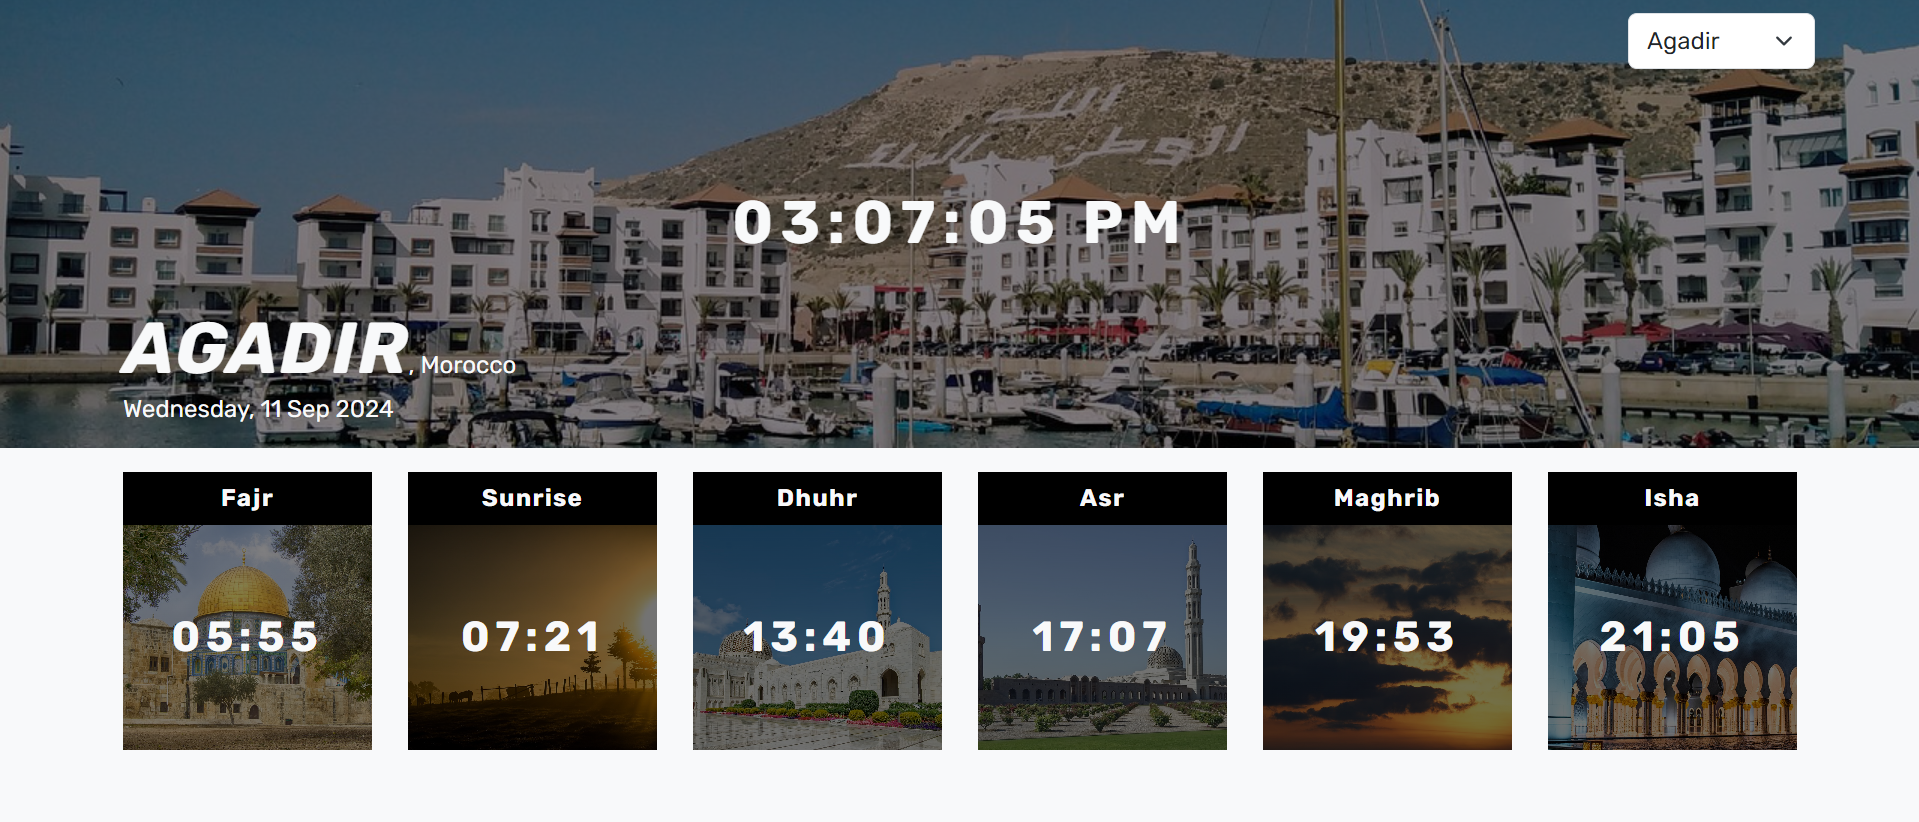
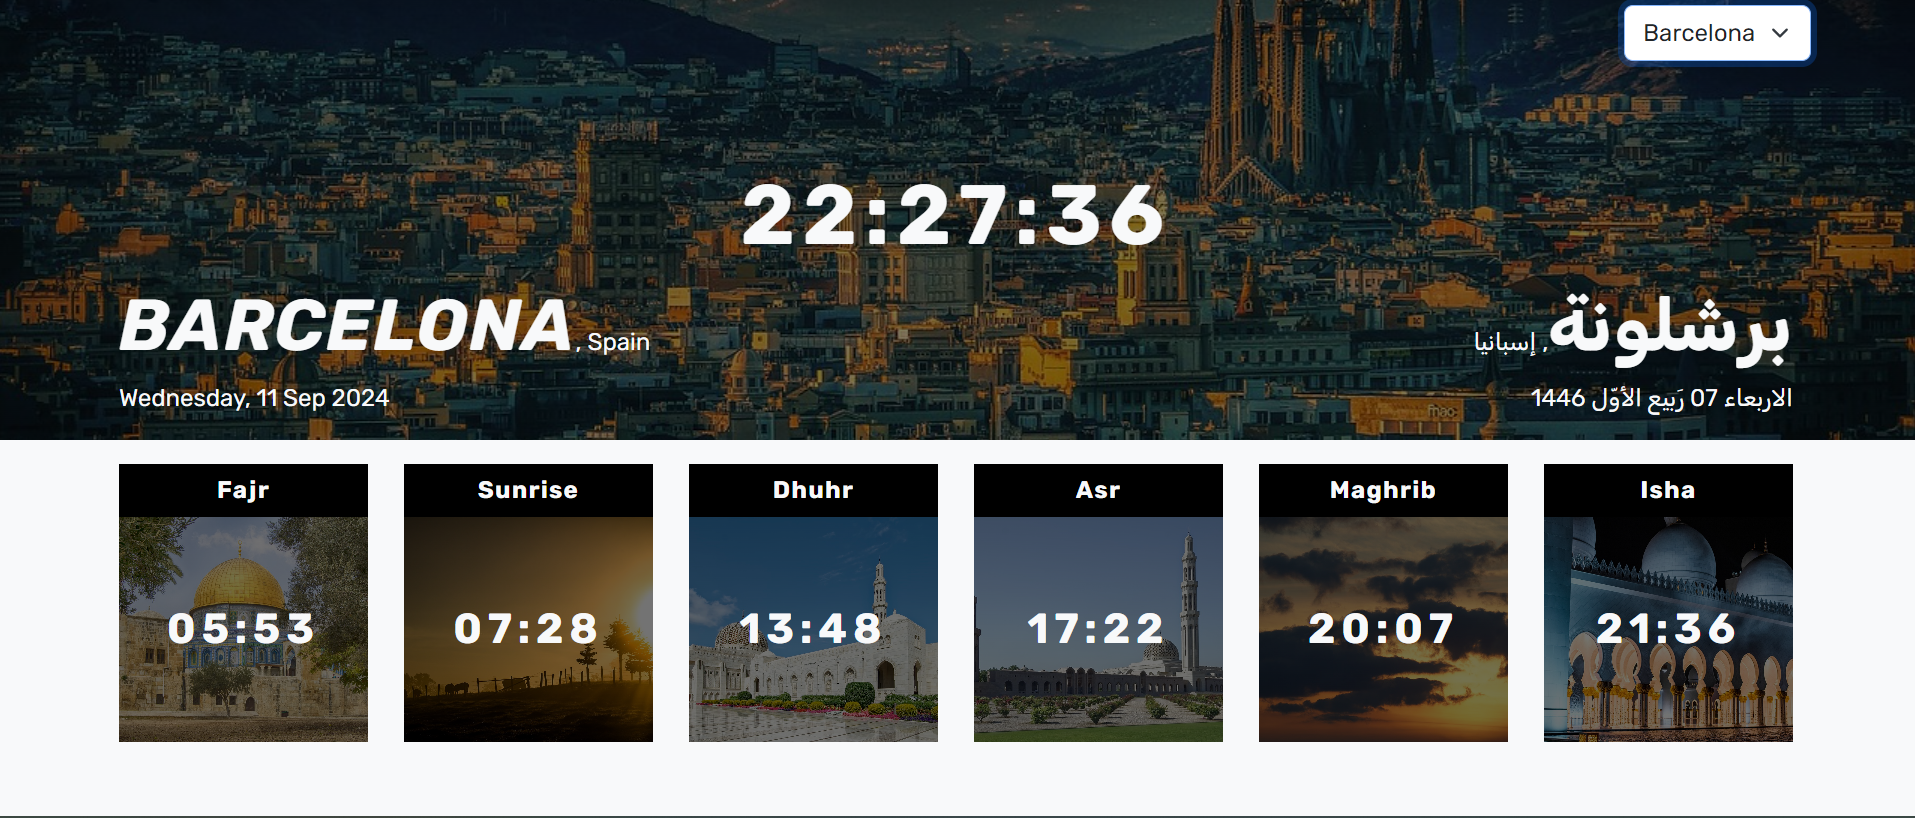
connect the app with json file

diff --git a/src/Components/DateInfo.tsx b/src/Components/DateInfo.tsx
@@ -1,60 +1,75 @@
 import { useState } from "react";
+import jsonData from "../data/db.json";
 
 interface DateInfoProps {
   city: Record<string, string>;
   setCity: (city: Record<string, string>) => void;
-  todayDate: string ;
-  timezone: string;
+  apiData: Record<string, any>;
 }
 
-const DateInfo = ({ city, setCity, todayDate, timezone}: DateInfoProps) => {
-
-  const Cities: Record<string, string>[] = [
-    { cityName: "Agadir", country: "Morocco", imgUrl: "https://cdn.pixabay.com/photo/2020/02/09/19/42/agadir-4834349_1280.jpg" },
-    { cityName: "Algiers", country: "Algeria",  imgUrl: "https://cdn.pixabay.com/photo/2017/06/20/22/13/ain-taya-2425120_1280.jpg" },
-    { cityName: "Tunis", country: "Tunisia",  imgUrl: "https://cdn.pixabay.com/photo/2014/01/24/20/29/mosque-251183_1280.jpg" },
-    { cityName: "Cairo", country: "Egypt",  imgUrl: "https://cdn.pixabay.com/photo/2018/03/24/15/07/pyramid-3256883_1280.jpg" },
-    { cityName: "Al-Qods", country: "Palestine",  imgUrl: "https://cdn.pixabay.com/photo/2019/11/27/21/06/jerusalem-4657867_1280.jpg" },
-    { cityName: "Makkah", country: "KSA",  imgUrl: "https://cdn.pixabay.com/photo/2019/09/18/23/29/the-pilgrims-guide-4487889_1280.jpg" },
-    { cityName: "Istanbul", country: "Turkey",  imgUrl: "https://cdn.pixabay.com/photo/2019/03/08/19/52/galata-4043037_1280.jpg" },
-    { cityName: "Moscow", country: "Russia",  imgUrl: "https://cdn.pixabay.com/photo/2016/07/30/08/13/moscow-1556561_1280.jpg" },
-    { cityName: "Tokyo", country: "Japan",  imgUrl: "https://cdn.pixabay.com/photo/2019/06/08/11/30/people-4259948_1280.jpg" },
-    { cityName: "Jakarta", country: "Indonesia",  imgUrl: "https://cdn.pixabay.com/photo/2019/11/29/04/14/jakarta-4660555_1280.jpg" },
-    { cityName: "Canberra", country: "Australia",  imgUrl: "https://cdn.pixabay.com/photo/2019/10/19/03/05/australia-canberra-4560441_1280.jpg" },
-    { cityName: "New York", country: "USA",  imgUrl: "https://cdn.pixabay.com/photo/2016/11/29/05/34/new-york-1867569_1280.jpg" },
-    { cityName: "Juneau", country: "USA",  imgUrl: "https://cdn.pixabay.com/photo/2017/05/04/17/08/harbor-2284564_1280.jpg" },
-    { cityName: "Ottawa", country: "Canada",  imgUrl: "https://cdn.pixabay.com/photo/2018/06/22/13/29/ottawa-3490766_1280.jpg" },
-    { cityName: "London", country: "UK",  imgUrl: "https://cdn.pixabay.com/photo/2023/05/02/18/13/london-7965770_1280.jpg" },
-    { cityName: "Barcelona", country: "Spain",  imgUrl: "https://cdn.pixabay.com/photo/2018/03/14/23/00/barcelona-3226639_1280.jpg" },
-    { cityName: "Rome", country: "Italy",  imgUrl: "https://cdn.pixabay.com/photo/2018/07/20/14/02/rome-3550739_1280.jpg" },
-  ];
+const DateInfo = ({ city, setCity, apiData }: DateInfoProps) => {
+  // get All cities info from json file
+  const Cities: Record<string, string>[] = jsonData.cities;
 
   // Handel select a city
   const handleSelect = (cityNameSelected: string) => {
-    const selectedCity = Cities.find(city => city.cityName === cityNameSelected);
+    const selectedCity = Cities.find(
+      (city) => city.EnCityName === cityNameSelected
+    );
     selectedCity && setCity(selectedCity);
   };
-  
+
   // show the moment time
   const [time, setTime] = useState(new Date());
   setInterval(() => setTime(new Date()), 1000);
-  const options: Intl.DateTimeFormatOptions = { timeZone: timezone, hour: '2-digit', minute: '2-digit', second: '2-digit' };
+  const options: Intl.DateTimeFormatOptions = {
+    timeZone: apiData.Timezone,
+    hour: "2-digit",
+    minute: "2-digit",
+    second: "2-digit",
+  };
   const clock = time.toLocaleTimeString("en-GB", options);
-  
+
   return (
-    <div className="date_info text-light" style={{ backgroundImage:`linear-gradient(#00000080, #00000080),url(${city.imgUrl})`}}>
+    <div
+      className="date_info text-light"
+      style={{
+        backgroundImage: `linear-gradient(#00000080, #00000080),url(${city.imgUrl})`,
+      }}
+    >
       <div className="container h-100 position-relative d-flex">
-        <ul className="list-unstyled lh-sm mt-md-auto text-md-start text-center w-100">
-          <li><i className="text-uppercase fw-bold">{city.cityName}</i>, {city.country}</li>
-          <li>{todayDate}</li>
-        </ul>
-        <h1 className="clock position-absolute fw-bold w-100 text-center">{clock}</h1>
-        <select className="form-select position-absolute" value={city.cityName} onChange={(e)=>handleSelect(e.target.value)}>
-          {Cities.map((city, index) => <option key={index}>{city.cityName}</option>)}
+        <div className="mt-md-auto w-100 d-flex">
+          <ul className="list-unstyled me-auto">
+            <li>
+              <i className="text-uppercase fw-bold">{city.EnCityName}</i>,{" "}
+              {city.EnCountryName}
+            </li>
+            <li>{apiData.EnTodayDate}</li>
+          </ul>
+
+          <ul className="list-unstyled text-end">
+            <li>
+              <i className="text-uppercase fw-bold">{city.ArCityName}</i>,{" "}
+              {city.ArCountryName}
+            </li>
+            <li>{apiData.ArTodayDate}</li>
+          </ul>
+        </div>
+        <h1 className="clock position-absolute fw-bold w-100 text-center">
+          {clock}
+        </h1>
+        <select
+          className="form-select position-absolute"
+          value={city.EnCityName}
+          onChange={(e) => handleSelect(e.target.value)}
+        >
+          {Cities.map((city, index) => (
+            <option key={index}>{city.EnCityName}</option>
+          ))}
         </select>
       </div>
     </div>
   );
-}
+};
 
 export default DateInfo;

diff --git a/src/App.tsx b/src/App.tsx
@@ -2,55 +2,64 @@ import { useEffect, useState } from "react";
 import DateInfo from "./Components/DateInfo";
 import PrayerTimes from "./Components/PrayerTimes";
 
-const App = () => {
+interface apiDataTypes {
+  timings: any;
+  EnTodayDate: string | null;
+  ArTodayDate: string | null;
+  Timezone: string;
+}
 
+const App = () => {
   const [city, setCity] = useState<Record<string, string>>({
-    cityName: "Agadir",
-    country: "Morocco",
-    imgUrl:"https://cdn.pixabay.com/photo/2020/02/09/19/42/agadir-4834349_1280.jpg",
+    EnCityName: "Agadir",
+    ArCityName: "أكادير",
+    EnCountryName: "Morocco",
+    ArCountryName: "المغرب",
+    imgUrl:
+      "https://cdn.pixabay.com/photo/2020/02/09/19/42/agadir-4834349_1280.jpg",
   });
-  
-  const [prayerTimes, setPrayerTimes] = useState<Record<string, string> | null>(null);
-  const [timezone, setTimezone] = useState<string>("Africa/Casablanca");
-  const [todayDate, setTodayDate] = useState<string>("");
+
+  const [apiData, setApiData] = useState<apiDataTypes>({
+    timings: "",
+    EnTodayDate: "",
+    ArTodayDate: "",
+    Timezone: "Africa/Casablanca",
+  });
+
   const [msg, setMsg] = useState<string>("Loading...");
-  
+
   const getCityPrayerTimes = async (city: Record<string, string>) => {
     try {
-      const response = await fetch(`https://api.aladhan.com/v1/timingsByCity?city=${city.cityName}&country=${city.country}`);
-      if (!response.ok) {
-        setMsg(`Error ${response.status}: Failed to get data from API`);
-        return { timings: null, todayDate: null, Timezone: null };
-      }
+      const response = await fetch(`https://api.aladhan.com/v1/timingsByCity?city=${city.EnCityName}&country=${city.EnCountryName}`);
+      if (!response.ok) throw new Error(`(${response.status}) Failed to get data from API`);
       const data = await response.json();
-
-      const { Fajr, Sunrise, Dhuhr, Asr, Maghrib, Isha } = data.data.timings; // get prayer timings
-      const todayDate = `${data.data.date.gregorian.weekday.en}, ${data.data.date.readable}`; // get the date of the day in city select
-      const Timezone = data.data.meta.timezone; // get the timezone of the city selected
-
-      return { timings: { Fajr, Sunrise, Dhuhr, Asr, Maghrib, Isha }, todayDate, Timezone };
+      const { Fajr, Sunrise, Dhuhr, Asr, Maghrib, Isha } = data.data.timings;
+      const DataFromApi = {
+        timings: { Fajr, Sunrise, Dhuhr, Asr, Maghrib, Isha },
+        EnTodayDate: `${data.data.date.gregorian.weekday.en}, ${data.data.date.readable}`,
+        ArTodayDate: `${data.data.date.hijri.year} ${data.data.date.hijri.weekday.ar} ${data.data.date.hijri.day} ${data.data.date.hijri.month.ar}`,
+        Timezone: data.data.meta.timezone,
+      };
+      return DataFromApi;
     } catch (error) {
       setMsg(`${error}`);
-      return { timings: null, todayDate: null, Timezone: null };
     }
+    return null;
   };
 
   useEffect(() => {
     (async () => {
-      const { timings, todayDate, Timezone } = await getCityPrayerTimes(city);
-      timings && setPrayerTimes(timings);
-      todayDate && setTodayDate(todayDate);
-      Timezone && setTimezone(Timezone);
+      const DataFromApi = await getCityPrayerTimes(city);
+      DataFromApi && setApiData(DataFromApi);
     })();
   }, [city]);
 
   return (
     <section className="bg-light d-flex flex-column">
-      <DateInfo city={city} setCity={setCity} todayDate={todayDate} timezone={timezone} />
-      <PrayerTimes prayerTimes={prayerTimes} msg={msg} />
+      <DateInfo city={city} setCity={setCity} apiData={apiData} />
+      <PrayerTimes timings={apiData.timings} msg={msg} />
     </section>
   );
-
 };
 
 export default App;

diff --git a/src/Components/PrayerTimes.tsx b/src/Components/PrayerTimes.tsx
@@ -1,23 +1,33 @@
+import jsonData from "../data/db.json";
+
 interface PrayerTimesProps {
-  prayerTimes: Record<string, string> | null;
+  timings: any;
   msg: string;
 }
 
-export default function PrayerTimes({ prayerTimes, msg }: PrayerTimesProps) {
+export default function PrayerTimes({ timings, msg }: PrayerTimesProps) {
+  if (!timings) return <div className="m-auto">{msg}</div>;
 
-  if (!prayerTimes) return <div className="m-auto">{msg}</div>;
+  const cardBgImg: Record<string, string> = jsonData.cardBg;
 
   return (
     <div className="prayer_times d-flex flex-grow-1">
       <div className="container m-auto mt-3 mb-3">
         <div className="row row-gap-2">
-          {Object.keys(prayerTimes).map((prayer) => {
+          {Object.keys(timings).map((prayer) => {
             return (
               <div key={prayer} className="col-6 col-lg-2 col-md-4">
                 <div className="card border-0 text-light">
-                  <h6 className="text-center fw-bold m-0 p-2 bg-black">{prayer}</h6>
-                  <div id={prayer} className="card-body d-flex">
-                    <h3 className="m-auto fw-bold">{prayerTimes[prayer]}</h3>
+                  <h6 className="text-center fw-bold m-0 p-2 bg-black">
+                    {prayer}
+                  </h6>
+                  <div
+                    className="card-body d-flex"
+                    style={{
+                      backgroundImage: `linear-gradient(#0000008c, #0000008c), url(${cardBgImg[prayer]})`,
+                    }}
+                  >
+                    <h3 className="m-auto fw-bold">{timings[prayer]}</h3>
                   </div>
                 </div>
               </div>

diff --git a/src/index.css b/src/index.css
@@ -28,6 +28,7 @@ section {
   left: 50%;
   transform: translate(-50%, -50%);
   letter-spacing: 5px;
+  font-size: 3.5rem;
 }
 
 .form-select {
@@ -51,24 +52,16 @@ section {
   letter-spacing: 4px;
 }
 
-#Fajr{background-image: linear-gradient(#0000007c, #0000007c), url(https://cdn.pixabay.com/photo/2019/11/27/21/06/jerusalem-4657867_1280.jpg)}
-
-#Sunrise{background-image: linear-gradient(#0000008c, #0000008c), url(https://cdn.pixabay.com/photo/2017/09/25/08/47/sunrise-2784380_1280.jpg)}
-
-#Dhuhr{background-image: linear-gradient(#0000008c, #0000008c), url(https://cdn.pixabay.com/photo/2021/01/30/12/31/sultan-qaboos-grand-mosque-5963726_1280.jpg)}
-
-#Asr{background-image: linear-gradient(#0000008c, #0000008c), url(https://cdn.pixabay.com/photo/2018/01/26/10/42/oman-3108358_1280.jpg)}
-
-#Maghrib{background-image: linear-gradient(#0000008c, #0000008c), url(https://cdn.pixabay.com/photo/2022/10/01/09/08/sky-7491142_1280.jpg)}
-
-#Isha{background-image: linear-gradient(#0000008c, #0000008c), url(https://cdn.pixabay.com/photo/2019/02/21/07/09/sheikh-zayed-grand-mosque-4010762_1280.jpg)}
-
 @media screen and (max-width: 767px) {
   html {
-    font-size: 14px;
+    font-size: 13px;
   }
   .date_info {
     height: 350px;
+  }
+
+  .date_info i {
+    font-size: 2.5rem;
   }
 
   .clock {

diff --git a/public/index.html b/public/index.html
@@ -7,7 +7,7 @@
   <meta name="theme-color" content="#000000" />
   <meta name="description" content="Web site created using create-react-app" />
   <title>Prayer Times App</title>
-  <link rel="icon" href="favicon.ico"/>
+  <link rel="icon" href="./favicon.ico" />
   <!-- =============== Bootstrap CSS Link =============== -->
   <link href="https://cdn.jsdelivr.net/npm/bootstrap@5.3.3/dist/css/bootstrap.min.css" rel="stylesheet"
     integrity="sha384-QWTKZyjpPEjISv5WaRU9OFeRpok6YctnYmDr5pNlyT2bRjXh0JMhjY6hW+ALEwIH" crossorigin="anonymous">
